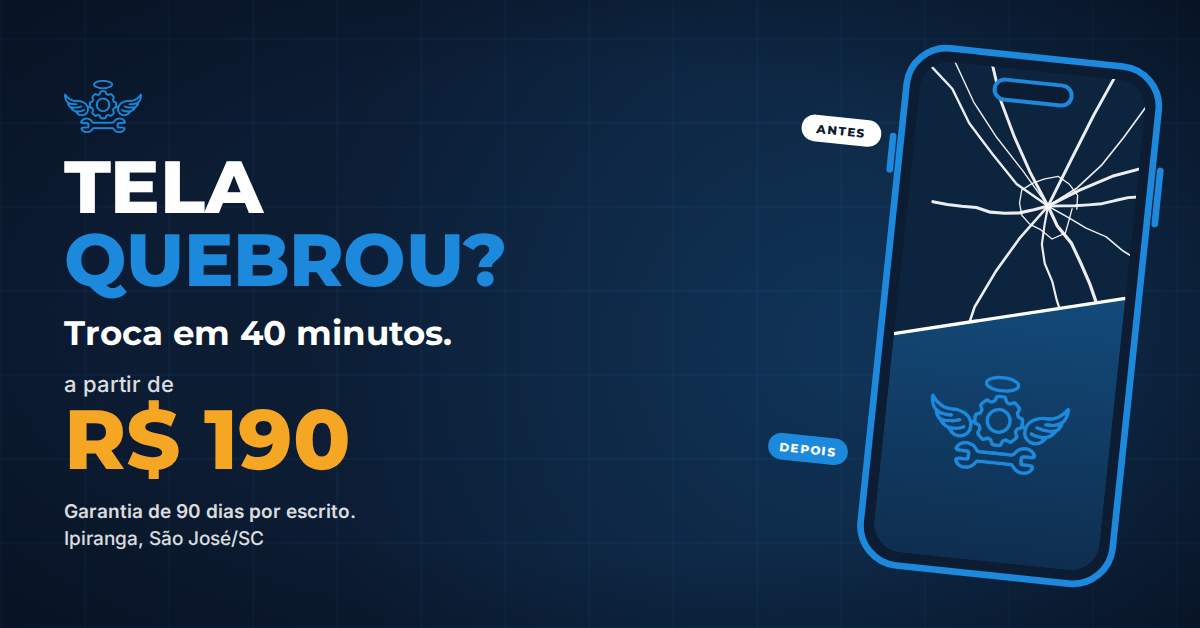
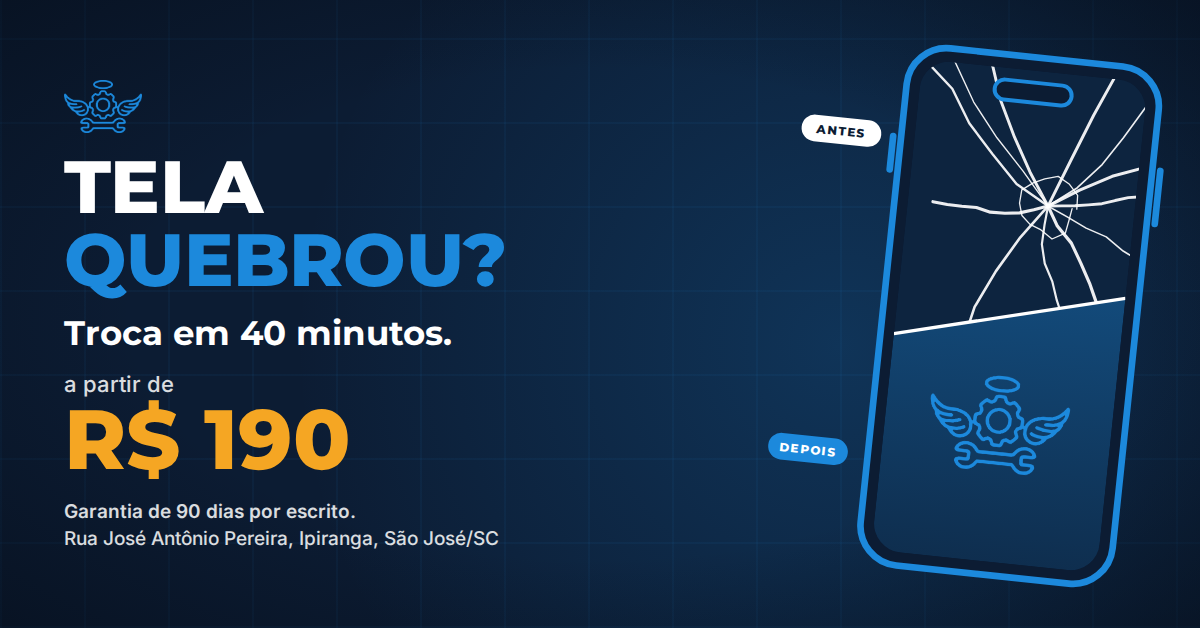
Atualiza materiais com o endereço da loja
Rua José Antônio Pereira, Ipiranga, São José/SC (CEP 88111-490) na cena
final do Reels, nas imagens do Google Ads, no sitelink "Como chegar",
em um título e numa descrição por grupo, e na segmentação do README.

Claude-Session: https://claude.ai/code/session_013VEDc6FKJjmJDqLZWJ93tc

Changed region(s): [[0.0617, 0.8471, 0.4317, 0.8774]]

diff --git a/reels/src/video.js b/reels/src/video.js
@@ -825,24 +825,25 @@ function sceneFinal(ctx, t, A) {
     ctx.restore();
   }
 
-  anim(ctx, t, 25.0, { y: 905 }, () => {
-    const label = 'Ipiranga · São José · SC';
+  anim(ctx, t, 25.0, { y: 925 }, () => {
+    const rua = 'Rua José Antônio Pereira';
     ctx.save();
     setFont(ctx, 46, 500, 'Inter', 0);
-    const tw = ctx.measureText(label).width;
+    const tw = ctx.measureText(rua).width;
     ctx.restore();
     const total = 36 + 18 + tw;
     const sx = W / 2 - total / 2;
     pin(ctx, sx + 18, 890, 40, C.angel);
-    txt(ctx, label, sx + 54, 905, { size: 46, weight: 500, font: 'Inter', align: 'left', alpha: 0.9 });
+    txt(ctx, rua, sx + 54, 905, { size: 46, weight: 500, font: 'Inter', align: 'left' });
+    txt(ctx, 'Ipiranga · São José/SC', W / 2, 965, { size: 40, weight: 500, font: 'Inter', alpha: 0.8 });
   });
 
-  anim(ctx, t, 25.3, { y: 1080, dy: 0, scale: 0.6, dur: 0.4, curve: ease.back }, () => {
+  anim(ctx, t, 25.3, { y: 1125, dy: 0, scale: 0.6, dur: 0.4, curve: ease.back }, () => {
     const bw = 820;
     const bh = 144;
     const pulse = t > 25.8 ? 1 + 0.03 * Math.sin((t - 25.8) * Math.PI * 2 * 0.9) : 1;
     ctx.save();
-    ctx.translate(W / 2, 1080);
+    ctx.translate(W / 2, 1125);
     ctx.scale(pulse, pulse);
     ctx.beginPath();
     ctx.roundRect(-bw / 2, -bh / 2, bw, bh, bh / 2);
@@ -863,9 +864,9 @@ function sceneFinal(ctx, t, A) {
     ctx.restore();
   });
 
-  anim(ctx, t, 25.6, { y: 1275 }, () => txt(ctx, '(48) 98865-0449', W / 2, 1275, { size: 88 }));
-  anim(ctx, t, 25.9, { y: 1355 }, () =>
-    txt(ctx, 'Garantia de 90 dias por escrito.', W / 2, 1355, { size: 42, weight: 400, font: 'Inter', alpha: 0.8 }));
+  anim(ctx, t, 25.6, { y: 1315 }, () => txt(ctx, '(48) 98865-0449', W / 2, 1315, { size: 88 }));
+  anim(ctx, t, 25.9, { y: 1395 }, () =>
+    txt(ctx, 'Garantia de 90 dias por escrito.', W / 2, 1395, { size: 42, weight: 400, font: 'Inter', alpha: 0.8 }));
 }
 
 function drawSweeps(ctx, t) {

diff --git a/google-ads/criativos.html b/google-ads/criativos.html
@@ -72,7 +72,7 @@
     <h1>TELA<br><span>QUEBROU?</span></h1>
     <p class="prazo">Troca em 40 minutos.</p>
     <p class="preco"><small>a partir de</small><strong>R$ 190</strong></p>
-    <p class="rodape"><b>Garantia de 90 dias por escrito.</b><br>Ipiranga, São José/SC</p>
+    <p class="rodape"><b>Garantia de 90 dias por escrito.</b><br>Rua José Antônio Pereira, Ipiranga, São José/SC</p>
   </div>
   <div class="fone"></div>
 </template>

diff --git a/google-ads/ANUNCIOS.md b/google-ads/ANUNCIOS.md
@@ -24,14 +24,14 @@
 | 11 | Tela de iPhone e Android | 24/30 |  |
 | 12 | Preço na frente, sem enrolação | 30/30 |  |
 | 13 | Orçamento rápido no WhatsApp | 28/30 |  |
-| 14 | Loja física em São José, SC | 27/30 |  |
+| 14 | Na Rua José Antônio Pereira | 27/30 |  |
 | 15 | Peça com garantia de 90 dias | 28/30 |  |
 
 | # | Descrição | Caracteres |
 |---|---|---|
 | 1 | Tela trocada em 40 minutos, a partir de R$ 190, com garantia de 90 dias por escrito. | 84/90 |
 | 2 | Orçamento sem compromisso. Se não compensar consertar, a gente fala. Chame agora. | 81/90 |
-| 3 | Você fala direto com quem conserta o seu aparelho. Loja no Ipiranga, em São José/SC. | 84/90 |
+| 3 | Fale direto com quem conserta. Loja na Rua José Antônio Pereira, Ipiranga, São José/SC. | 87/90 |
 | 4 | Também fazemos troca de bateria, banho químico, películas, acessórios e notebooks. | 82/90 |
 
 **Palavras-chave:** `"troca de tela celular"`, `"conserto tela celular"`, `"tela quebrada celular"`, `"troca de tela iphone"`, `"trocar tela celular são josé"`, `"assistência técnica celular são josé"`, `"assistência técnica celular perto de mim"`, `[conserto de celular ipiranga]`, `[troca de tela celular são josé]`
@@ -56,14 +56,14 @@
 | 12 | Fale direto com quem conserta | 29/30 |  |
 | 13 | Preço na frente, sem enrolação | 30/30 |  |
 | 14 | Orçamento rápido no WhatsApp | 28/30 |  |
-| 15 | Loja física em São José, SC | 27/30 |  |
+| 15 | Na Rua José Antônio Pereira | 27/30 |  |
 
 | # | Descrição | Caracteres |
 |---|---|---|
 | 1 | Celular descarregando rápido ou bateria estufada? Troca com garantia de 90 dias escrita. | 88/90 |
 | 2 | Bateria estufada pode forçar e danificar a tela. Traga para avaliar antes de piorar. | 84/90 |
 | 3 | Orçamento sem compromisso. Se não compensar consertar, a gente fala. Chame agora. | 81/90 |
-| 4 | Você fala direto com quem conserta o seu aparelho. Loja no Ipiranga, em São José/SC. | 84/90 |
+| 4 | Fale direto com quem conserta. Loja na Rua José Antônio Pereira, Ipiranga, São José/SC. | 87/90 |
 
 **Palavras-chave:** `"troca de bateria celular"`, `"trocar bateria iphone"`, `"bateria celular viciada"`, `"bateria estufada celular"`, `"celular descarregando rápido"`, `[troca de bateria celular são josé]`
 
@@ -87,14 +87,14 @@
 | 12 | Orçamento sem compromisso | 25/30 |  |
 | 13 | Fale direto com quem conserta | 29/30 |  |
 | 14 | Orçamento rápido no WhatsApp | 28/30 |  |
-| 15 | Loja física em São José, SC | 27/30 |  |
+| 15 | Na Rua José Antônio Pereira | 27/30 |  |
 
 | # | Descrição | Caracteres |
 |---|---|---|
 | 1 | Molhou? Não ligue o aparelho. Traga agora que a chance de salvar é maior. | 73/90 |
 | 2 | Não coloque no arroz nem no carregador. Desligue e traga para avaliação o quanto antes. | 87/90 |
 | 3 | Banho químico feito por técnico. Se não compensar consertar, a gente fala. | 74/90 |
-| 4 | Você fala direto com quem conserta o seu aparelho. Loja no Ipiranga, em São José/SC. | 84/90 |
+| 4 | Fale direto com quem conserta. Loja na Rua José Antônio Pereira, Ipiranga, São José/SC. | 87/90 |
 
 **Palavras-chave:** `"celular molhou"`, `"celular caiu na água"`, `"banho químico celular"`, `"celular molhado conserto"`, `"celular caiu na água o que fazer"`
 
@@ -116,7 +116,7 @@
 | Celular molhado | Banho químico com técnico | Não ligue, traga agora |
 | Películas e acessórios | Películas de vidro e capas | Na loja do Ipiranga |
 | Chamar no WhatsApp | (48) 98865-0449 | Orçamento sem compromisso |
-| Como chegar | Ipiranga, São José/SC | Loja física |
+| Como chegar | Rua José Antônio Pereira | Ipiranga, São José/SC |
 
 ### Snippet estruturado · Serviços
 Troca de tela, Troca de bateria, Banho químico, Películas e acessórios, Desbloqueio Android, Remoção de vírus, Notebook e computador, Impressoras

diff --git a/google-ads/README.md b/google-ads/README.md
@@ -1,7 +1,8 @@
 # Angel Tech · Campanha Google Ads
 
 Pacote pronto para subir uma campanha local focada em conversão (ligação e
-WhatsApp) para a assistência técnica do Ipiranga, em São José/SC.
+WhatsApp) para a assistência técnica da Rua José Antônio Pereira, Ipiranga,
+São José/SC (CEP 88111-490).
 
 | Arquivo | Para quê |
 |---|---|
@@ -32,8 +33,10 @@ do kit de marca: **preço e prazo na frente, garantia sempre citada.**
 ## Configuração recomendada
 
 - **Tipo:** Pesquisa, só Rede de Pesquisa (desmarque Parceiros de pesquisa e Display).
-- **Local:** raio de 5 a 8 km a partir da loja, com a opção **"Presença: pessoas
-  que estão ou estão regularmente nos locais segmentados"**. Sem isso o anúncio
+- **Local:** raio de 5 a 8 km a partir da loja (Rua José Antônio Pereira,
+  Ipiranga, CEP 88111-490; use o pino do Perfil da Empresa no Google), com a
+  opção **"Presença: pessoas que estão ou estão regularmente nos locais
+  segmentados"**. Sem isso o anúncio
   aparece para quem só pesquisa sobre São José estando longe.
 - **Programação:** só no horário de atendimento. A loja fecha às 18h no
   inverno, e uma ligação que ninguém atende é um clique pago perdido.

diff --git a/reels/README.md b/reels/README.md
@@ -15,7 +15,7 @@ música de terceiros nem problema de direitos autorais.
 | 13,8–17,4 s | Molhou? | **NÃO LIGA O APARELHO.** "Traz agora que a chance de salvar é maior." · Banho químico |
 | 17,4–21,6 s | Serviços | Bateria, banho químico, películas e acessórios, notebook e computador, impressoras, desbloqueio Android, limpeza e remoção de vírus |
 | 21,6–24,4 s | Orçamento | **ORÇAMENTO SEM COMPROMISSO.** "Se não compensar consertar, a gente fala." |
-| 24,4–29 s | Final | Logo oficial, Ipiranga · São José · SC, botão **CHAMA NO WHATSAPP** e (48) 98865-0449 |
+| 24,4–29 s | Final | Logo oficial, Rua José Antônio Pereira · Ipiranga · São José/SC, botão **CHAMA NO WHATSAPP** e (48) 98865-0449 |
 
 Segue o kit de marca (v1, agosto/2026): fundo azul noite `#0C1C33`, azul Angel
 `#1C89DC` só em traços e destaques, âmbar `#F5A623` só no preço, no botão e no
